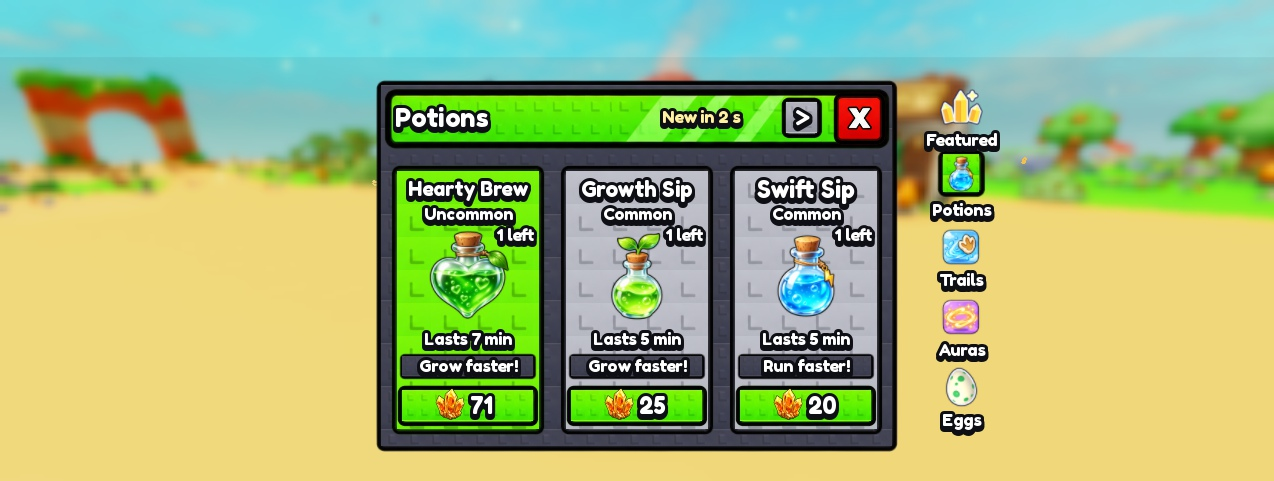
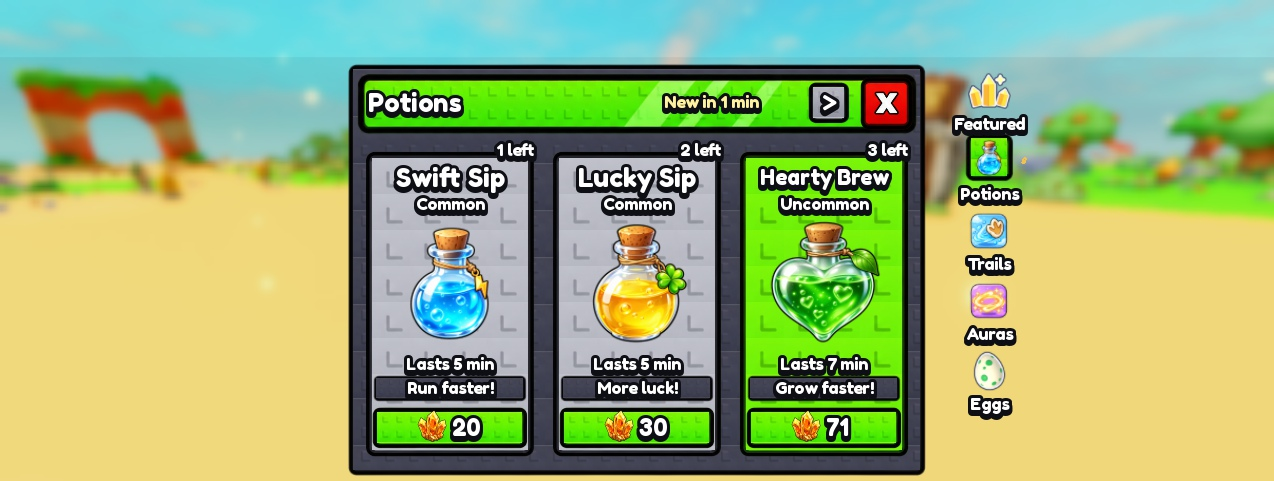
BD-1298 WIP: potion card like the picture's card (paused for the element-spec checker)
- bottle 50 % of the card between the rarity word and the strip; rarity word 55 % of the name
- card words = the picture's: short first-word name, rarity, small "x3" count top right, kid words, price;
  "Lasts N min" off the shop card (My Potions strip shows it) - LEAD decisions in SaeMenuRules
- the picture's X (11.4 % H) and title, yellow restock timer 4.2 % H, smaller page arrow
- verify_sae_frame updated (31 mutants); mock tool follows; round-1 Studio evidence (v3, bottles 1.4x)
- NOT recaptured in Studio after the card change; rail icons not swapped yet

diff --git a/tools/verify_sae_frame.py b/tools/verify_sae_frame.py
@@ -278,8 +278,8 @@ print("sae menus passed")
 '''
 
 # BD-1298: the Potion Shop follows the owner's proposed picture (docs/evidence/2026-11-23-potion-proposal/proposal.jpg; ChatGPT's ranked
-# differences): a 1.40 : 1 window 71.5 % H, three tall cards ~30 % W x 70-73 % H, 2-3 % apart, the bottle 35-40 % of the card, the name
-# 10-12 %, the rarity word 5-7 %, the timer inside the header at ~63 %, the X and the title ~15 % bigger, no row under the cards.
+# differences): a 1.40 : 1 window 71.5 % H, three tall cards ~30 % W x 70-73 % H, 2-3 % apart, the bottle 45-48 % of the card (lead review), the
+# name 10-12 %, the rarity word 55 % of the name (19 px floor), the timer inside the header at ~63 %, the X and the title ~15 % bigger, no row under the cards.
 LUAU_POTION = r'''
 local fails = {}
 local function check(ok, what) if not ok then table.insert(fails, what) end end
@@ -288,7 +288,7 @@ local P = M.potionLayout(1280, 720, 0)
 local w = P.window
 check(near(w.w / w.h, 1.36, 1.44) and near(w.h / 720, .70, .73), "Potion Shop window 1.40 : 1, 71.5 % H (the picture)")
 check(math.abs(w.x + w.w / 2 - 640) <= 1 and near(w.y / 720, .15, .18), "Potion Shop centred, top at 15-18 %")
-check(near(P.close, 62, 66) and near(P.titleSize, 42, 46) and P.close + 8 <= P.headerH, "the X ~64 px and the title ~44 px (15 % over 56 / 38), the X inside the header")
+check(near(P.close, 78, 86) and near(P.titleSize, 44, 48) and P.close + 8 <= P.headerH, "the picture's X (~82 px) and title (~46 px), the X inside the header")
 check(near(P.headerH / w.h, .16, .19), "header 16-19 % of the window (the picture)")
 check(#P.cards == 3 and M.Potion.perPage == 3, "three potions per page")
 for _, c in P.cards do check(near(c.w / w.w, .28, .32) and near(c.h / w.h, .70, .74), "tall cards ~30 % of the window width, 70-74 % of its height") end
@@ -296,8 +296,8 @@ local gap = P.cards[2].x - P.cards[1].x - P.cards[1].w
 check(near(gap / w.w, .02, .03), "cards 2-3 % of the window apart")
 check(math.abs(P.cards[1].x - (w.w - P.cards[3].x - P.cards[3].w)) <= 1, "the card row centred")
 local c = P.cards[1]
-check(near(P.art / c.h, .35, .40), "the bottle 35-40 % of the card")
-check(near(P.cardTitle / c.h, .10, .12) and near(P.rarityText / c.h, .05, .07), "the name 10-12 % of the card, the rarity word 5-7 %")
+check(near(P.art / c.h, .48, .52), "the bottle ~50 % of the card (owner 2026-11-23: the picture's card)")
+check(near(P.cardTitle / c.h, .10, .12) and P.rarityText == math.max(19, math.floor(P.cardTitle * 0.55 + 0.5)), "the name 10-12 % of the card, the rarity word 55 % of it (19 px floor)")
 check(c.y + c.h + 6 <= w.h and w.h - c.y - c.h <= 30, "nothing under the cards (no restock row, no Yours strip)")
 check(P.restock == nil and P.more == nil and P.band == nil, "no restock row, page row or Yours strip in the layout")
 local hw = w.w - 2 * P.headerInset
@@ -306,19 +306,19 @@ check(near(tc / hw, .58, .66), "the restock timer inside the header at ~63 % of 
 check(P.timer.size >= 19 and P.timer.y + P.timer.h <= P.headerInset + P.headerH + 4, "the timer text 19+ px, in the header")
 check(M.TimerColour[1] >= 240 and M.TimerColour[2] >= 220 and M.TimerColour[3] < 200, "the timer yellow-white")
 check(P.stripeAt >= .45 and P.stripeAt <= .55, "the header stripes from about half the header (the picture)")
-check(P.badge.x + P.badge.w <= c.w - 4 and P.badge.y >= P.artTop - 4 and P.badge.y < P.artTop + P.art, "the stock badge top right, under the rarity word")
-check(P.lasts.y + P.lasts.h <= c.h - P.edge - P.button - P.innerGap - P.lineH and P.lasts.y >= P.artTop + P.art, "Lasts 5 min between the bottle and the strip")
-check(P.artGap == P.innerGap + P.lasts.h, "KitCard leaves the Lasts line free (artGap)")
+check(P.badge.x + P.badge.w <= c.w - 4 and P.badge.x >= c.w * 0.6 and P.badge.y == P.artTop and near(P.badge.size, 19, 22), "the small x3 count top right under the rarity word (the picture)")
+check(P.lasts == nil and P.artTop + P.art + 2 + P.lineH + P.innerGap + P.button + P.edge <= c.h, "no Lasts line on the card; the bottle between the rarity word and the strip")
+check(P.artGap == nil and M.shortName("Swift Sip") == "Swift" and M.shortName("Titan") == "Titan", "short names: the first word (the picture)")
 check(M.PotionTitle == "Potions" and M.YoursTitle == "My Potions" and M.DrinkWord == "Drink!", "title Potions; the owned page My Potions with Drink!")
 check(M.PotionRail[1] == "featured" and M.PotionRail[2] == "potions" and M.PotionRail[3] == "trails" and M.PotionRail[4] == "auras" and M.PotionRail[5] == "eggs", "rail Featured, Potions, Trails, Auras, Eggs (the picture)")
 check(near((P.rail.x - w.x - w.w) / 1280, .009, .016) and near(P.rail.icon / 720, .07, .08), "rail 1-1.5 % W right of the window, icons 7-8 % H")
 -- kid words: no numbers, "3 left" not "x3", Legendary growth "Grow super fast!"
 check(M.kindWord("growth") == "Grow faster!" and M.kindWord("speed") == "Run faster!" and M.kindWord("growth", "Legendary") == "Grow super fast!", "Grow faster! / Run faster! / Grow super fast!")
 for kind, word in M.SuperWords do check(not string.find(word, "[%d%%]"), "super kid line without numbers: " .. kind) end
-check(M.left(3) == "3 left" and M.have(2) == "Have 2" and M.lasts(300) == "Lasts 5 min", "3 left, Have 2, Lasts 5 min")
+check(M.count(3) == "x3" and M.lasts(300) == "Lasts 5 min", "x3 (a count), Lasts 5 min")
 -- the Studio canvas: the bottle still big
 local S = M.potionLayout(1274, 423, 58)
-check(S.art >= 85 and near(S.art / S.cards[1].h, .33, .40), "Studio canvas: the bottle 85+ px, 33-40 % of the card")
+check(S.art >= 125 and near(S.art / S.cards[1].h, .45, .52), "Studio canvas: the bottle 125+ px, 45-52 % of the card")
 -- every size: floors, everything fits, inside the window and the screen
 for _, size in {{1280, 720, 0}, {1920, 1080, 0}, {1366, 768, 36}, {1024, 768, 36}, {1274, 423, 58}, {844, 390, 0}, {812, 375, 0}, {667, 375, 0}, {932, 430, 0}, {1180, 820, 36}, {740, 360, 0}} do
     local sw, sh, inset = size[1], size[2], size[3]
@@ -328,14 +328,14 @@ for _, size in {{1280, 720, 0}, {1920, 1080, 0}, {1366, 768, 36}, {1024, 768, 36
     check(win.x >= 0 and win.y >= 0 and win.x + win.w <= sw and win.y + win.h <= sh, tag .. ": window on screen")
     check(k.w >= 120, tag .. ": potion card wide enough for its button")
     check(p.art >= 60, tag .. ": the bottle 60+ px")
-    check(p.artTop + p.art + p.artGap + p.innerGap + p.lineH + p.innerGap + p.button + p.edge <= k.h, tag .. ": potion card parts fit")
-    for _, t in {p.cardTitle, p.rarityText, p.lineText, p.buttonText, p.timer.size, p.lasts.size, p.badge.size, p.titleSize} do check(t >= 19, tag .. ": potion text >= 19 px") end
+    check(p.artTop + p.art + 2 + p.lineH + p.innerGap + p.button + p.edge <= k.h, tag .. ": potion card parts fit")
+    for _, t in {p.cardTitle, p.rarityText, p.lineText, p.buttonText, p.timer.size, p.badge.size, p.titleSize} do check(t >= 19, tag .. ": potion text >= 19 px") end
     check(p.button >= 44 and p.page.w >= 44 and p.page.h >= 44 and p.close >= 48, tag .. ": buy button, page arrow 44+ px, X 48+")
     local closeX = win.w - p.headerInset - math.floor((p.headerH - p.close) / 2) - p.close
     check(p.page.x + p.page.w <= closeX and p.page.y >= p.headerInset and p.page.y + p.page.h <= p.headerInset + p.headerH, tag .. ": the page arrow in the header, left of the X")
     check(p.timer.x + p.timer.w <= p.page.x, tag .. ": the timer clear of the page arrow")
     check(p.timer.x >= p.headerInset + math.floor(p.headerH * 0.2) + M.textWidth(M.YoursTitle, p.titleSize), tag .. ": the timer clear of the title")
-    check(p.badge.w >= M.textWidth("3 left", p.badge.size), tag .. ": the badge fits 3 left")
+    check(p.badge.w >= M.textWidth("x3", p.badge.size), tag .. ": the badge fits x3")
     for _, s in p.rail.slots do check(s.x >= win.x + win.w and s.x + s.w <= sw and s.y >= 0 and s.y + s.h <= sh, tag .. ": rail right of the window, on screen") end
 end
 if #fails > 0 then error("potion shop FAILED:\n" .. table.concat(fails, "\n")) end
@@ -371,7 +371,7 @@ def scan2(src):
     need('Menu.lasts(item.duration)' in potion and 'Menu.kindWord(item.kind, item.rarity)' in potion and 'multiplier' not in potion, 'kid words: what it does and how long, never the multiplier')
     need('if ProgressionRules.shopWindow(now) ~= d.window then d.restocked() return end' in potion and 'TimerWords.restockIn(' in potion, 'New in 3 min counts down; a new window redraws')
     # BD-1298: the proposed picture
-    need('badge = if left > 0 then Menu.left(left) else nil' in potion and 'Menu.count(' not in potion, 'the stock badge says "3 left" (never "x3")')
+    need('badge = if left > 0 then Menu.count(left) else nil' in potion and potion.count('name = Menu.shortName(item.name)') == 2 and 'Lasts_' not in potion, 'the card: short name, the x3 count, no Lasts line (the picture)')
     need('live.restock = Art.words(window, "Restock", restockWords(d.window), t.x, t.y, t.w, t.h, t.size, 36, Color3.fromRGB(c[1], c[2], c[3]))' in potion,
          'the restock timer in the header, yellow-white')
     need('word = Menu.DrinkWord, grey = false, onPick = function() d.onUse(item) end' in potion and 'state.page = if state.page < pages then state.page + 1 else 1' in potion
@@ -407,7 +407,7 @@ MUTANTS = {
     'the Index hand-over ignores the flag': ('screens', 'if Config.MenusSaeFrameEnabled==true and require(script.Parent.DinoIndexKit)', 'if require(script.Parent.DinoIndexKit)'),
     'a buy tap buys at once': ('shops', 'onBuy=function(item) potionChoice.id=item.id open("potionConfirm") end', 'onBuy=function(item) transact("buyPotion",item.id,false) end'),
     'the card shows the multiplier': ('potion', 'Menu.kindWord(item.kind, item.rarity)', 'tostring(item.multiplier)'),
-    'the stock badge says x3': ('potion', 'badge = if left > 0 then Menu.left(left) else nil', 'badge = if left > 0 then Menu.count(left) else nil'),
+    'the full catalog name': ('potion', 'key = item.id, rarity = item.rarity, name = Menu.shortName(item.name),', 'key = item.id, rarity = item.rarity, name = item.name,'),
     'the timer leaves the header': ('potion', 'live.restock = Art.words(window, "Restock", restockWords(d.window), t.x, t.y,', 'live.restock = Art.words(window, "Restock", restockWords(d.window), 8, w.h - 30,'),
     'no way to drink': ('potion', 'local pages = shopPages + ownPages', 'local pages = shopPages'),
     'the rail back in the old order': ('potion', 'tabs = Menu.PotionRail, words = Menu.PotionRailWords,', 'tabs = FrameRules.RailTabs, words = FrameRules.RailWords,'),
@@ -423,17 +423,19 @@ MUTANTS = {
 }
 LUAU_MUTANTS = {
     'the potion window back at 1.85 : 1': ('M.Potion = {h = 0.715, aspect = 1.40,', 'M.Potion = {h = 0.715, aspect = 1.85,'),
-    'the bottle at 25 % of the card': ('bottle = 0.38,', 'bottle = 0.25,'),
+    'the bottle at 25 % of the card': ('bottle = 0.50,', 'bottle = 0.25,'),
+    'the count in the middle': ('local badge = {x = cardW - c.edge - 4 - badgeW,', 'local badge = {x = math.floor((cardW - badgeW) / 2),'),
+    'the rarity word as big as the name': ('local rarityText = math.clamp(round(cardTitle * 0.55), M.MinText, 32)', 'local rarityText = math.clamp(round(cardTitle * 0.9), M.MinText, 32)'),
     'the buy button under 44 px': ('local button = if small then M.MinTap else math.max(M.MinTap, round(cH * P.button))', 'local button = if small then 36 else round(cH * 0.09)'),
     'the timer back at the left': ('timerAt = 0.63,', 'timerAt = 0.25,'),
-    'the X at the shared kit size': ('local close = math.max(round(M.MinClose * 1.15), round(h * 0.089))', 'local close = math.max(M.MinClose, round(h * 0.078))'),
+    'the X at the shared kit size': ('local close = math.max(round(M.MinClose * 1.15), round(h * P.close))', 'local close = math.max(M.MinClose, round(h * 0.078))'),
     'the page arrow over the X': ('local page = {x = closeX - math.max(6, round(close * 0.15)) - pageS,', 'local page = {x = closeX - 10,'),
-    'the badge says x3': ('function M.left(n: number): string return tostring(math.max(0, math.floor(n))) .. " left" end', 'function M.left(n: number): string return "x" .. tostring(n) end'),
+    'the long name': ('function M.shortName(name: string): string return string.match(name, "^(%S+)") or name end', 'function M.shortName(name: string): string return name end'),
     'Legendary growth with a number': ('growth = "Grow super fast!"', 'growth = "x2 Growth"'),
     'kid line with a number': ('growth = "Grow faster!"', 'growth = "+40% growth"'),
     'the Index panel at 40 %': ('panel = 0.28,', 'panel = 0.40,'),
     'the rail inside the window': ('local x = win.x + win.w + math.max(6, round(w * 0.0125))', 'local x = win.x + win.w - 40'),
-    'text under 19 px on a phone': ('local rarityText = if small then M.MinText else', 'local rarityText = if small then 14 else'),
+    'text under 19 px on a phone': ('local rarityText = math.clamp(round(cardTitle * 0.55), M.MinText, 32)', 'local rarityText = math.clamp(round(cardTitle * 0.55), 14, 32)'),
 }
 
 

diff --git a/tools/mock_menus_slice2.py b/tools/mock_menus_slice2.py
@@ -247,16 +247,16 @@ def potion_mock(L, runner, w, h, inset):
         studK = cw / d['w']
         studded(canvas, d, x, y, cw, ch, studK * 0.7, studK)
         e = lay['edge']
+        name = name.split()[0]  # the card shows the first word (BD-1298)
         words(canvas, name, x + 4, y + e, cw - 8, lay['nameH'], max(19, min(lay['cardTitle'], int((cw - 12) / (len(name) * 0.56)))))  # KitCard fits the name
         words(canvas, rarity, x + 4, y + e + lay['nameH'] - 2, cw - 8, lay['rarityH'], lay['rarityText'])
         by = ch - e - lay['button']
         sy = by - lay['innerGap'] - lay['lineH']
-        bottom = sy - 2 - lay['artGap']  # BD-1298: "Lasts 5 min" sits between the bottle and the strip
+        bottom = sy - 2  # BD-1298: the bottle between the rarity word and the strip
         art = min(lay['art'], bottom - lay['artTop'], cw - 4)
         picture(canvas, ITEMS / f'potion-{file}-512.png', x + (cw - art) // 2, y + lay['artTop'] + (bottom - lay['artTop'] - art) // 2, art, art)
-        bg, ls = lay['badge'], lay['lasts']
-        words(canvas, '3 left', x + bg['x'], y + bg['y'], bg['w'], bg['h'], bg['size'], align='right')
-        words(canvas, lasts, x + ls['x'], y + ls['y'], ls['w'], ls['h'], ls['size'])
+        bg = lay['badge']
+        words(canvas, 'x3', x + bg['x'], y + bg['y'], bg['w'], bg['h'], bg['size'], align='right')
         strip(canvas, L, x + lay['stripInset'], y + sy, cw - 2 * lay['stripInset'], lay['lineH'], kind, lay['lineText'])
         button(canvas, L, x + lay['buttonInset'], y + by, cw - 2 * lay['buttonInset'], lay['button'], price=price, text=lay['buttonText'])
     t, g = lay['timer'], lay['page']  # BD-1298: the restock words and the page arrow in the header
